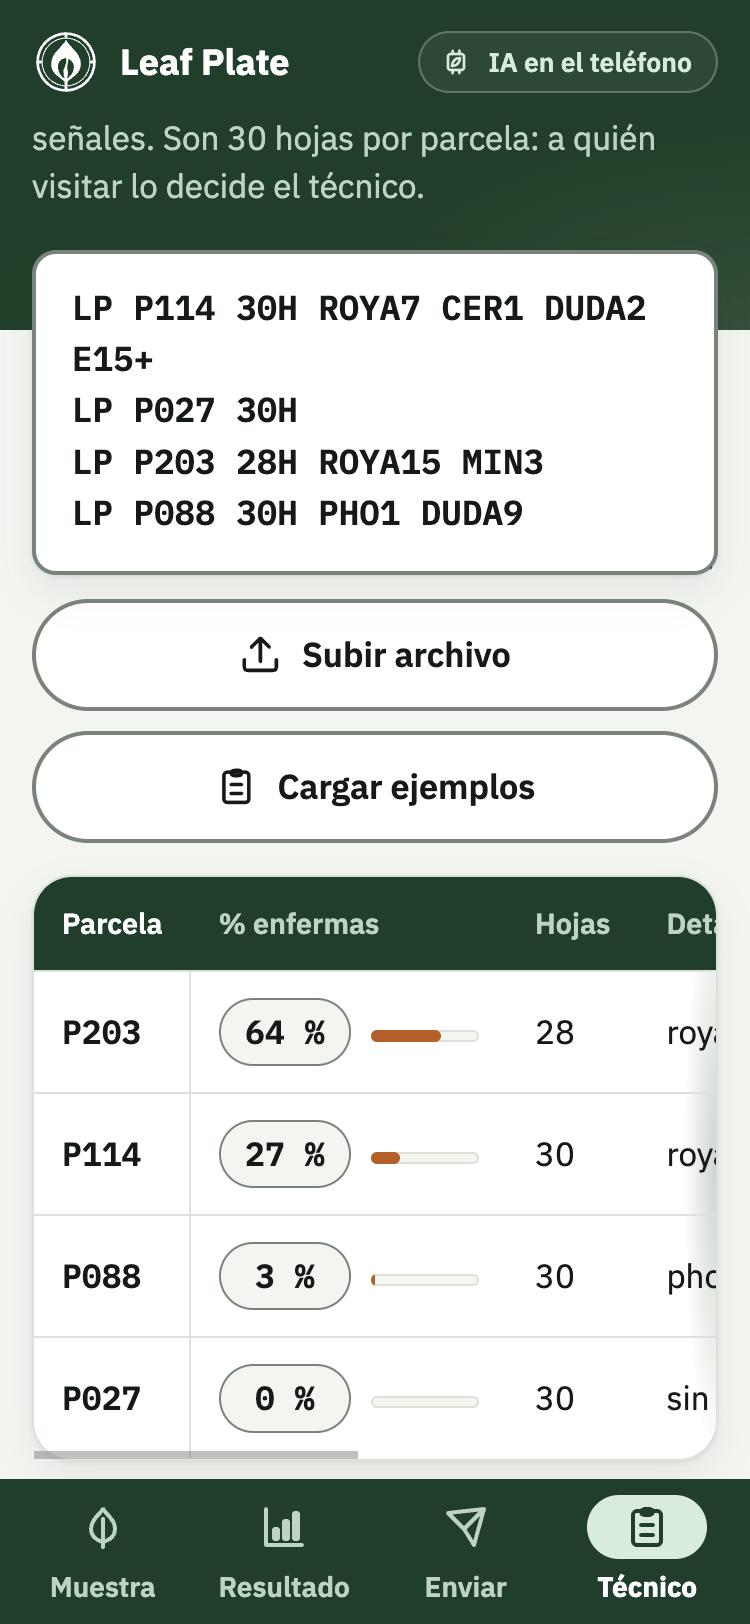
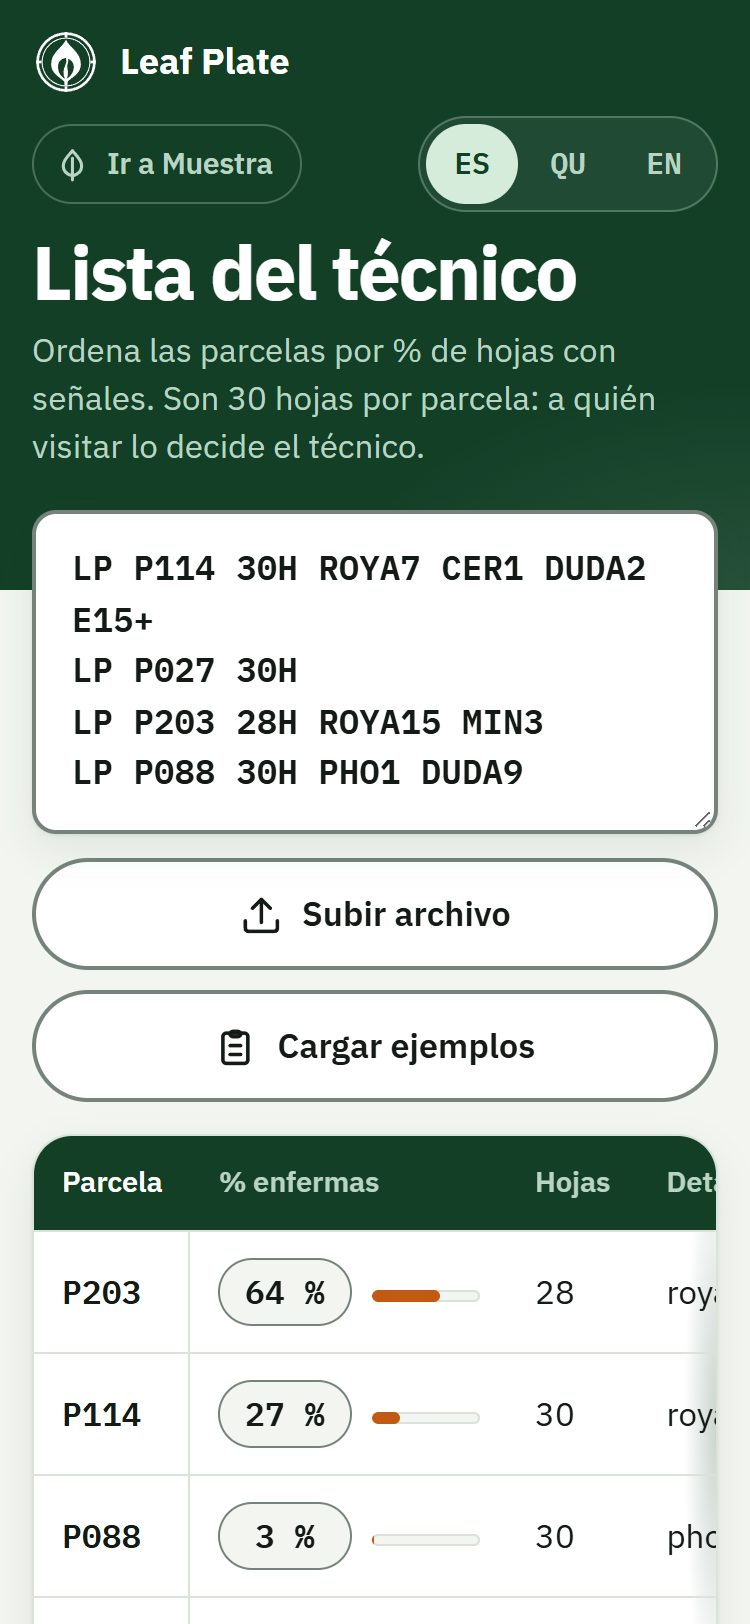
Move the technician's list out of the tabs into its own view
The farmer's bar keeps Muestra, Resultado and Enviar. The technician's
list lives at #/tecnico with no tab bar and a wider layout for a laptop;
a link under the top bar switches between the two views.

diff --git a/app/src/main.ts b/app/src/main.ts
@@ -12,16 +12,26 @@ import { renderMuestra } from "./ui/Muestra";
 import { renderResultado } from "./ui/Resultado";
 import { renderTecnico } from "./ui/Tecnico";
 
-const ROUTES: Record<Route, { name: TextKey; icon: IconName }> = {
+/** La lista del técnico es una vista aparte (#/tecnico), con su propio marco y sin estas pestañas. */
+const TECH_ROUTE = "tecnico";
+
+/** Pestañas de la caficultora. */
+const TABS: Record<Exclude<Route, typeof TECH_ROUTE>, { name: TextKey; icon: IconName }> = {
   muestra: { name: "tabSample", icon: "leaf" },
   resultado: { name: "tabResult", icon: "chart" },
   enviar: { name: "tabSend", icon: "send" },
-  tecnico: { name: "tabTech", icon: "list" },
 };
 
 function currentRoute(): Route {
   const route = location.hash.replace("#/", "");
-  return route in ROUTES ? (route as Route) : "muestra";
+  return route === TECH_ROUTE || route in TABS ? (route as Route) : "muestra";
+}
+
+/** Paso de una vista a la otra: de las pestañas a la lista del técnico y de vuelta. */
+function viewLink(app: App, tech: boolean): HTMLElement {
+  return tech
+    ? el("a", { class: "view-link", href: "#/muestra" }, icon("leaf"), app.t("emptyGo"))
+    : el("a", { class: "view-link", href: `#/${TECH_ROUTE}` }, icon("technician"), app.t("viewTech"));
 }
 
 /** Botón de idioma, bajo la barra superior: un toque por idioma, con el actual marcado. */
@@ -79,6 +89,7 @@ async function start(): Promise<void> {
       stopAudio();
       document.documentElement.lang = LANG_INFO[app.lang].html;
       const route = currentRoute();
+      const tech = route === TECH_ROUTE;
       const main = el("main", {});
       if (route === "muestra") renderMuestra(main, app);
       else if (route === "resultado") renderResultado(main, app);
@@ -91,22 +102,29 @@ async function start(): Promise<void> {
         "header",
         { class: "appbar" },
         el("span", { class: "brand" }, brandLogo(), "Leaf Plate"),
-        // Con el clasificador de mentira ya avisa la franja de demostración.
-        classifier.kind === "onnx" && el("span", { class: "ai-status" }, icon("local-ai"), app.t("aiLocal")),
+        // Con el clasificador de mentira ya avisa la franja de demostración. La lista del técnico no usa IA.
+        !tech && classifier.kind === "onnx" && el("span", { class: "ai-status" }, icon("local-ai"), app.t("aiLocal")),
       );
       // En su propia fila: en la barra, junto a la marca y al indicador de IA, no cabe a ancho de teléfono.
-      const langRow = el("div", { class: "lang-row" }, languageSwitch(app));
-      const nav = el("nav", {});
-      for (const [key, tab] of Object.entries(ROUTES)) {
-        const link = el("a", { href: `#/${key}`, class: key === route ? "active" : "" }, icon(tab.icon), app.t(tab.name));
-        if (key === route) link.setAttribute("aria-current", "page");
-        nav.append(link);
-      }
+      const langRow = el("div", { class: "lang-row" }, viewLink(app, tech), languageSwitch(app));
 
       const banners: HTMLElement[] = [];
       // El quechua de la interfaz no lo ha revisado nadie que lo hable: se avisa siempre.
       if (app.lang === "quz") banners.push(el("p", { class: "banner" }, icon("alert"), app.t("quzNotice")));
       if (classifier.kind === "fake") banners.push(el("p", { class: "banner" }, icon("alert"), app.t("demoBanner")));
+
+      // La vista del técnico va sin pestañas y, en una laptop, a todo el ancho de la tabla.
+      root.classList.toggle("tech-view", tech);
+      if (tech) {
+        root.replaceChildren(header, langRow, ...banners, main);
+        return;
+      }
+      const nav = el("nav", {});
+      for (const [key, tab] of Object.entries(TABS)) {
+        const link = el("a", { href: `#/${key}`, class: key === route ? "active" : "" }, icon(tab.icon), app.t(tab.name));
+        if (key === route) link.setAttribute("aria-current", "page");
+        nav.append(link);
+      }
       root.replaceChildren(header, langRow, ...banners, main, nav);
     },
   };

diff --git a/app/src/style.css b/app/src/style.css
@@ -149,10 +149,28 @@ strong { font-weight: 700; }
 /* Botón de idioma (ES / QU / EN): fila propia bajo la barra, dentro de la franja verde, para que la
    marca y el indicador de IA quepan en la barra a 360 px. No se queda fija al desplazar; el idioma
    actual queda en claro. */
-.lang-row { display: flex; justify-content: flex-end; padding: 0 16px 6px; background: var(--forest); }
+.lang-row { display: flex; flex-wrap: wrap; align-items: center; gap: 6px 12px; padding: 0 16px 6px; background: var(--forest); }
+/* Paso a la otra vista (lista del técnico o pestañas de la caficultora), a la izquierda del idioma. */
+.view-link {
+  display: inline-flex;
+  align-items: center;
+  gap: 8px;
+  min-height: 40px;
+  padding: 4px 14px 4px 10px;
+  font-size: 0.82rem;
+  font-weight: 600;
+  color: var(--on-forest-muted);
+  text-decoration: none;
+  white-space: nowrap;
+  border: 1px solid rgb(212 236 217 / 0.28);
+  border-radius: var(--pill);
+}
+.view-link:active { background: rgb(255 255 255 / 0.12); }
+.view-link:focus-visible { outline-color: var(--mint); outline-offset: 1px; }
 .lang-switch {
   display: flex;
   gap: 2px;
+  margin-left: auto;
   padding: 3px;
   background: rgb(255 255 255 / 0.06);
   border: 1px solid rgb(212 236 217 / 0.28);
@@ -648,6 +666,9 @@ tr:last-child td { border-bottom: 0; }
   white-space: nowrap;
 }
 .invalid { margin: 6px 0 0; padding-left: 20px; font-family: var(--mono); font-size: 0.88rem; font-weight: 600; overflow-wrap: anywhere; }
+/* Vista aparte, sin barra de pestañas: en una laptop la tabla entra entera. */
+#app.tech-view { max-width: 960px; }
+.tech-view main { padding-bottom: calc(40px + env(safe-area-inset-bottom, 0px)); }
 
 /* ---------- Barra de pestañas: verde oscuro, pestaña activa con su píldora ---------- */
 

diff --git a/app/src/domain/i18n.ts b/app/src/domain/i18n.ts
@@ -25,7 +25,7 @@ const es = {
   tabSample: "Muestra",
   tabResult: "Resultado",
   tabSend: "Enviar",
-  tabTech: "Técnico",
+  viewTech: "Técnico",
 
   labelSana: "Sana",
   labelRoya: "Roya",
@@ -146,7 +146,7 @@ const en: Record<TextKey, string> = {
   tabSample: "Sample",
   tabResult: "Result",
   tabSend: "Send",
-  tabTech: "Technician",
+  viewTech: "Technician",
 
   labelSana: "Healthy",
   labelRoya: "Rust",
@@ -268,7 +268,7 @@ const quz: Record<TextKey, string> = {
   tabSample: "Muestra",
   tabResult: "Tarisqa",
   tabSend: "Apachiy",
-  tabTech: "Técnico",
+  viewTech: "Técnico",
 
   labelSana: "Qhali",
   labelRoya: "Roya",

diff --git a/app/src/ui/app.ts b/app/src/ui/app.ts
@@ -28,7 +28,7 @@ export interface App {
   serviceUrl: string;
   /** Frase del LLM ya recibida para un código, para no pedirla en cada repintado. */
   sentence: { code: string; text: string | null } | null;
-  /** Códigos pegados en la lista del técnico: se conservan al cambiar de idioma o de pestaña. */
+  /** Códigos pegados en la lista del técnico: se conservan al cambiar de idioma o de vista. */
   techText: string;
   catalog: MessageCatalog;
   classifier: Classifier;

diff --git a/app/src/ui/Tecnico.ts b/app/src/ui/Tecnico.ts
@@ -20,7 +20,7 @@ export function renderTecnico(root: HTMLElement, app: App): void {
   const output = el("div", {});
 
   const refresh = () => {
-    // Se guarda lo pegado para no perderlo al cambiar de idioma o de pestaña.
+    // Se guarda lo pegado para no perderlo al cambiar de idioma o de vista.
     app.techText = text.value;
     output.replaceChildren();
     const { payloads, invalid } = parseCodes(text.value);

diff --git a/README.md b/README.md
@@ -110,9 +110,10 @@ Plot P114, 30 leaves, 7 with rust, 1 with cercospora, 2 the model was not sure a
 over 15 years old. Classes with a count of zero are left out. Like any SMS it shows the
 sender's number, and the cooperative can link the plot code to its member.
 
-The four screens are **Muestra** (sample), **Resultado** (result), **Enviar** (send) and
-**Técnico** (the technician's list, which sorts pasted codes by the share of leaves with signs
-and flags old plants and samples with many doubts).
+The four screens are **Muestra** (sample), **Resultado** (result) and **Enviar** (send), which
+are the farmer's tabs, and **Técnico**, a separate view of the same app at `#/tecnico` (the
+technician's list, which sorts pasted codes by the share of leaves with signs and flags old
+plants and samples with many doubts). A link under the top bar switches between the two.
 
 ## What the AI does, and what it does not
 

diff --git a/README.es.md b/README.es.md
@@ -113,9 +113,10 @@ Parcela P114, 30 hojas, 7 con roya, 1 con cercospora, 2 en las que el modelo dud
 más de 15 años. Las clases con conteo cero se omiten. Como todo SMS, muestra el número de
 quien lo envía, y la cooperativa puede vincular el código de parcela con su socia.
 
-Las cuatro pantallas son **Muestra**, **Resultado**, **Enviar** y **Técnico** (la lista del
+Las cuatro pantallas son **Muestra**, **Resultado** y **Enviar**, que son las pestañas de la
+caficultora, y **Técnico**, una vista aparte de la misma app en `#/tecnico` (la lista del
 técnico, que ordena los códigos pegados por porcentaje de hojas con señales y avisa de plantas
-viejas y de muestras con muchas dudas).
+viejas y de muestras con muchas dudas). Un enlace bajo la barra superior pasa de una a otra.
 
 ## Qué hace la IA y qué no
 
